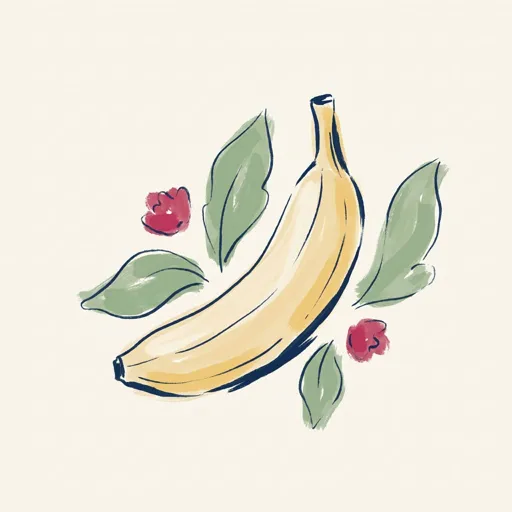
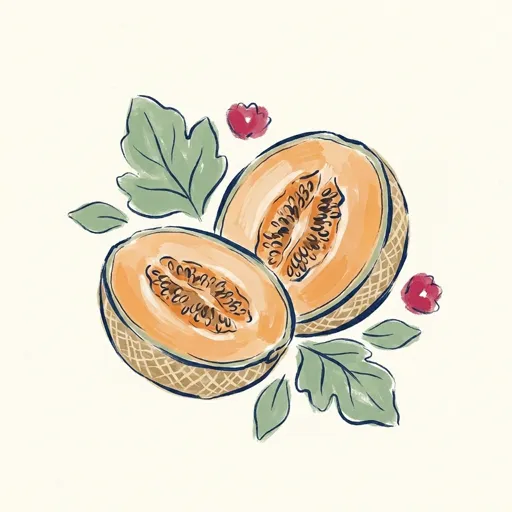
Fix timeline label collision + replace week-34 illustration
QA fixes. (1) The SVG timeline's Today stem struck through the
trimester label text when the marker landed near a label center (e.g.
20w0d vs Trimester 2); labels now nudge away from the stem and reset on
re-submit, and Today text is suppressed near the Due date block
(weeks ~38-40) to prevent the symmetric collision. (2) Week-34 weekly
illustration regenerated: the model had echoed the banana style
reference instead of drawing a cantaloupe. Full 38-image set audited
against the weekly copy; all subjects now match. Cache-bust duedate.js
v14.

diff --git a/assets/duedate.js b/assets/duedate.js
@@ -205,10 +205,12 @@
     if (dueLabel) dueLabel.textContent = PL.shortDate(dueDate) + ' · estimate';
 
     var todayG = document.getElementById('dd-svg-today');
+    var todayXVisible = null;
     if (todayG) {
       if (daysPreg >= 0 && daysPreg <= 280) {
         var weeksSinceLmp = daysPreg / 7;
         var todayX = 20 + (weeksSinceLmp / 40) * 680;
+        todayXVisible = todayX;
         todayG.style.display = '';
         setX(['dd-svg-today-halo', 'dd-svg-today-ring', 'dd-svg-today-dot', 'dd-svg-today-pulse'], todayX, 'cx');
         setX(['dd-svg-today-label', 'dd-svg-today-weeks'], todayX, 'x');
@@ -223,11 +225,34 @@
            position visually. The stem and marker geometry stay visible. */
         var todayLabel = document.getElementById('dd-svg-today-label');
         var todayWeeksEl = document.getElementById('dd-svg-today-weeks');
-        var hideTodayLabels = (todayX - 20) < 64;
+        /* Q2 extension (2026-07-04): also suppress Today text when it
+           would collide with the "Due date" label block on the right
+           (weeks ~38-40). The pulsing halo still marks the position. */
+        var hideTodayLabels = (todayX - 20) < 64 || (700 - todayX) < 76;
         if (todayLabel) todayLabel.style.display = hideTodayLabels ? 'none' : '';
         if (todayWeeksEl) todayWeeksEl.style.display = hideTodayLabels ? 'none' : '';
       } else {
         todayG.style.display = 'none';
+      }
+    }
+
+    /* Q2 (2026-07-04, Ido screenshot report): when the Today stem lands
+       near a trimester label center, the stem strikes through the label
+       text (e.g. 20w0d vs "Trimester 2" at x=368). Nudge that
+       trimester's title + weeks text away from the stem; reset all
+       others to their default centers so repeat submits stay clean. */
+    var TRI_CENTERS = [130, 368, 598];
+    var triTitles = document.getElementById('dd-svg-tri-titles');
+    var triWeeks = document.getElementById('dd-svg-tri-weeks');
+    if (triTitles && triWeeks) {
+      for (var ti = 0; ti < 3; ti++) {
+        var triX = TRI_CENTERS[ti];
+        if (todayXVisible !== null && Math.abs(todayXVisible - triX) < 58) {
+          triX = (triX <= todayXVisible) ? (todayXVisible - 62) : (todayXVisible + 62);
+          triX = Math.max(64, Math.min(656, triX));
+        }
+        if (triTitles.children[ti]) triTitles.children[ti].setAttribute('x', triX);
+        if (triWeeks.children[ti]) triWeeks.children[ti].setAttribute('x', triX);
       }
     }
 

diff --git a/index.html b/index.html
@@ -161,12 +161,12 @@
         <rect x="20"  y="100" width="221" height="10" rx="5" fill="#DCE4F1"/>
         <rect x="258" y="100" width="221" height="10" rx="5" fill="#B9C7DD"/>
         <rect x="496" y="100" width="204" height="10" rx="5" fill="#9DB1CD"/>
-        <g font-size="13" font-weight="600" fill="#1A2E4A" text-anchor="middle">
+        <g id="dd-svg-tri-titles" font-size="13" font-weight="600" fill="#1A2E4A" text-anchor="middle">
           <text x="130" y="80">Trimester 1</text>
           <text x="368" y="80">Trimester 2</text>
           <text x="598" y="80">Trimester 3</text>
         </g>
-        <g font-size="11" fill="#5A6B82" text-anchor="middle">
+        <g id="dd-svg-tri-weeks" font-size="11" fill="#5A6B82" text-anchor="middle">
           <text x="130" y="96">Weeks 1&ndash;13</text>
           <text x="368" y="96">Weeks 14&ndash;27</text>
           <text x="598" y="96">Weeks 28&ndash;40</text>
@@ -334,6 +334,6 @@
 
 
 <script src="/assets/app.js?v=20"></script>
-<script src="/assets/duedate.js?v=13"></script>
+<script src="/assets/duedate.js?v=14"></script>
 </body>
 </html>